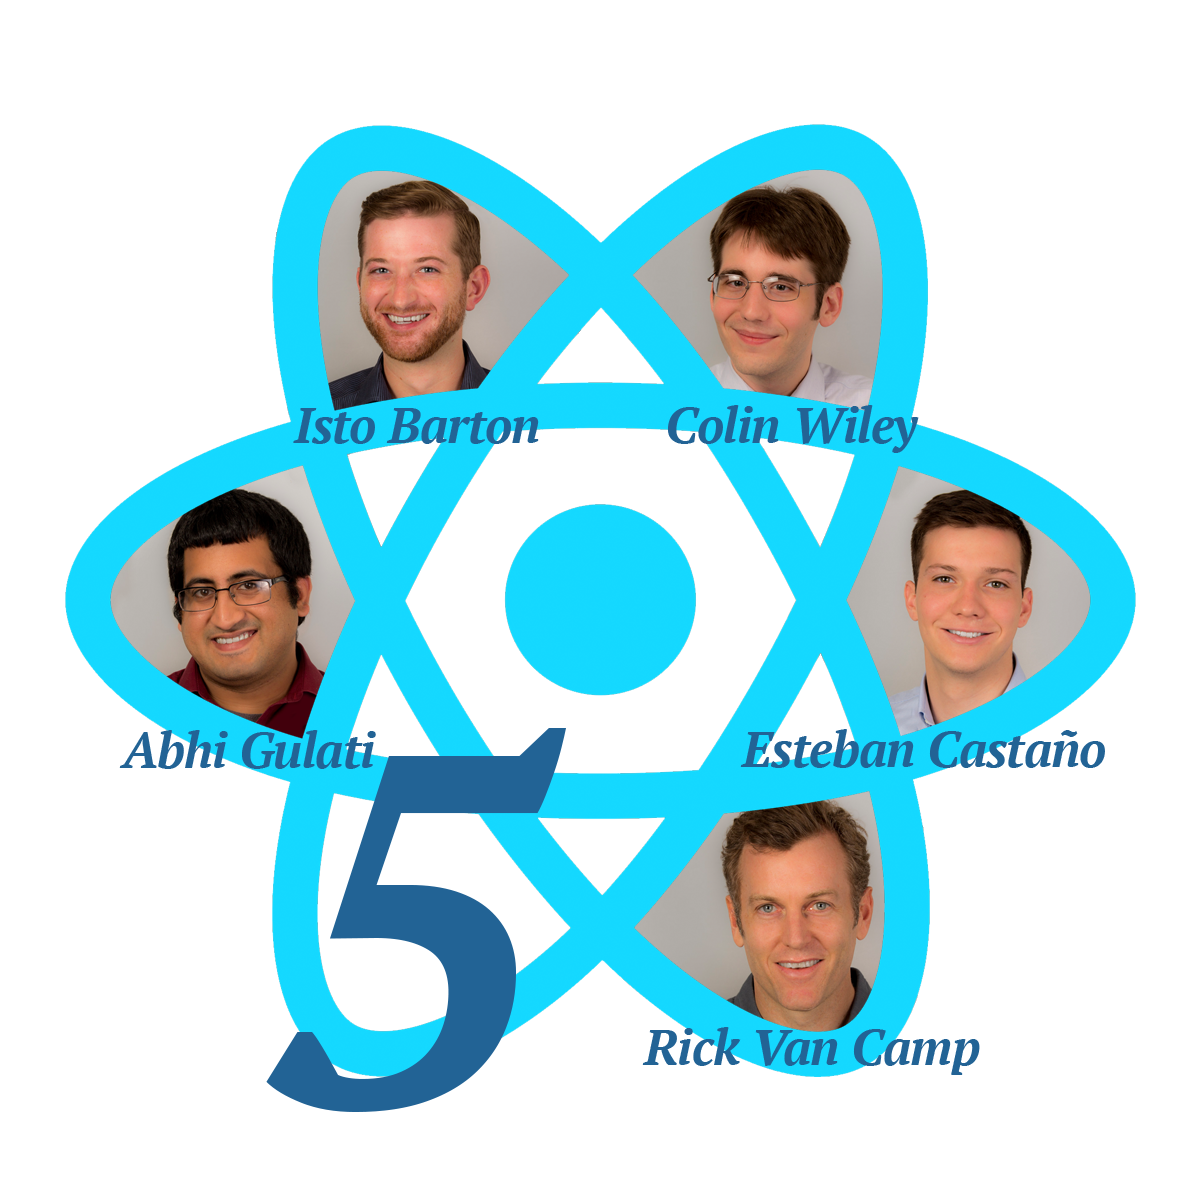
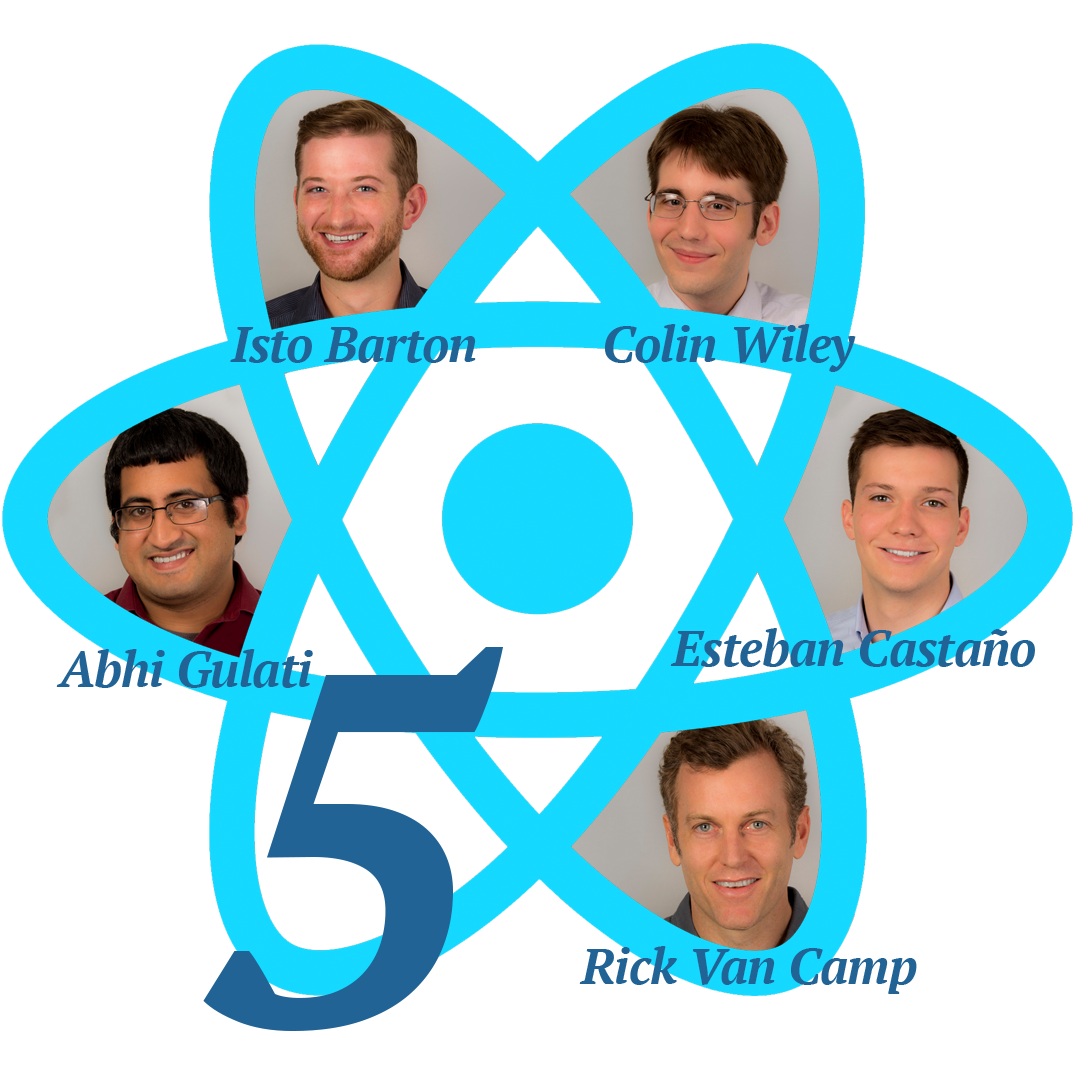
Adjust image for sizing, adjust background color

diff --git a/client/components/LandingPage.jsx b/client/components/LandingPage.jsx
@@ -39,14 +39,18 @@ var Home = module.exports = React.createClass({
     <div className="item item3">
       <div className="container">
         <div className="carousel-caption">
-          <h1>Our Team</h1>
-          <p>Images to be added - Richard Van Camp, Isto Barton, Colin Wiley, Abhi Gulati, Esteban Castaño</p>
-          <img id="react5" className="pull-left" src="../../public/assets/TeamImage.png"/>
-        </div>
-        <div className="carousel-caption">
-          <h1>Our Stack</h1>
-          <img id="ourStack" className="pull-right" src="../../public/assets/ourstack.png"/>
-          <p>Images to be added: Node Express React Reflux MongoDB</p>
+          <div className="row">
+            <div className="teamInfo col-xl-6">
+              <h1>Our Team</h1>
+              <img id="react5" className="pull-left" src="../../public/assets/TeamImage2.png"/>
+            </div>
+          </div>
+          <div className="carousel-caption">
+            <div className="row">
+              <h1>Our Stack</h1>
+              <img id="ourStack" className="pull-right" src="../../public/assets/ourstack.png"/>
+            </div>
+          </div>
         </div>
       </div>
     </div>

diff --git a/sass/LandingPage.scss b/sass/LandingPage.scss
@@ -52,21 +52,21 @@
 }
 
 .carousel .item2 {
-  background-color:$dark-teal;
-}
-
-.carousel .item3 {
   background-color:$dark-purple;
 }
 
+.carousel .item3 {
+  background-color:$dark-teal;
+}
+
 #react5{
-  width: 400px;
-  height: 400px;
+  width: 550px;
+  height: 550px;
 }
 
 #ourStack{
-  width: 400px;
-  height: 400px;
+  width: 550px;
+  height: 550px;
 }
 
 .carContent{
